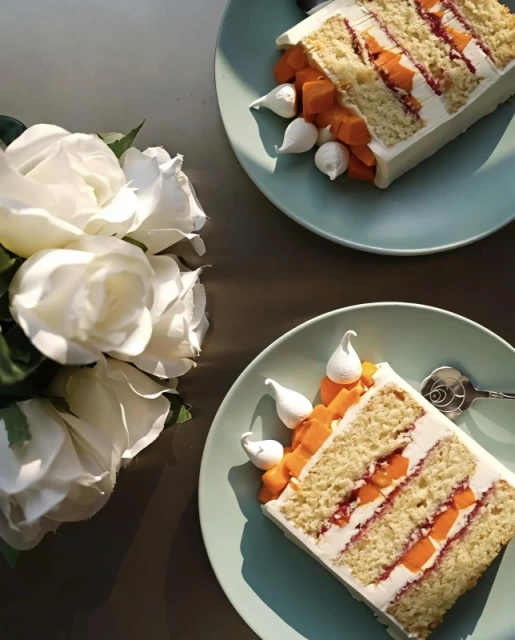
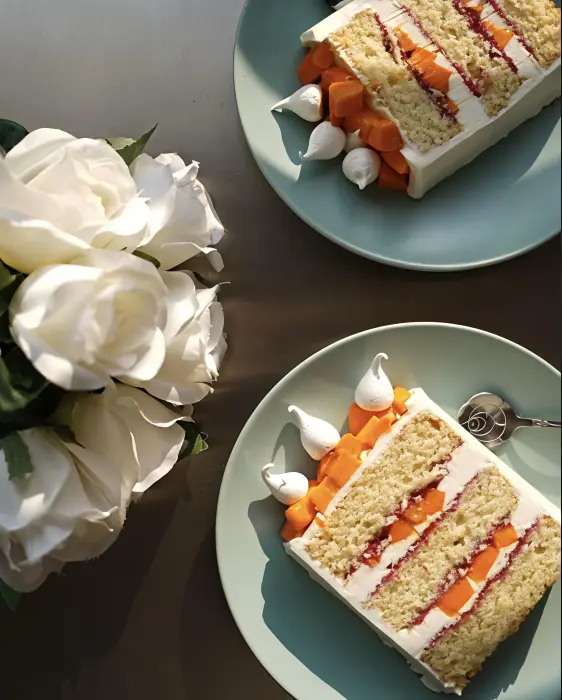
images optimised

diff --git a/src/app/mo-made.component.ts b/src/app/mo-made.component.ts
@@ -285,8 +285,8 @@ export class MoMadeComponent implements OnInit {
   }
 
   storyImages = [
-    'assets/images/IMG_5087.webp',
-    'assets/images/IMG_5088.webp'
+    'assets/images/IMG_5087_m.webp',
+    'assets/images/co1_m.webp'
   ];
   currentStoryIndex = signal(0);
 
@@ -312,33 +312,6 @@ export class MoMadeComponent implements OnInit {
     }
   }
 
-  // getSeasonalProducts(): Product[] {
-  //   const month = new Date().getMonth();
-  //   if (month <= 1 || month >= 10) {
-  //     return [
-  //       { id: 101, name: 'Strawberry Bliss', price: 1600, flavor: 'fruit', image: 'assets/images/IMG_5089.webp', description: 'Vanilla sponge with Strawberry Compote & Vanilla Swiss Meringue Buttercream' },
-  //       { id: 102, name: 'Chocolate Strawberry Dream', price: 1800, flavor: 'chocolate', image: 'assets/images/IMG_5088.webp', description: 'Chocolate sponge with fresh strawberry & Chocolate Ganache' }
-  //     ];
-  //   } else if (month >= 2 && month <= 5) {
-  //     return [
-  //       { id: 201, name: 'Mango Delight', price: 1700, flavor: 'fruit', image: 'assets/images/IMG_5087.webp', description: 'Vanilla Sponge with Fresh Mango & Vanilla Swiss Meringue Buttercream' },
-  //       { id: 202, name: 'Pistachio Mango Fusion', price: 2000, flavor: 'nutty', image: 'assets/images/IMG_5089.webp', description: 'Pistachio sponge with Fresh Mango, Raspberry & Vanilla Swiss Meringue Buttercream' },
-  //       { id: 203, name: 'Tropical Berry', price: 1800, flavor: 'fruit', image: 'assets/images/IMG_5087.webp', description: 'Vanilla Sponge with Fresh Mango, Raspberry & Vanilla Swiss Meringue Buttercream' }
-  //     ];
-  //   } else {
-  //     return [
-  //       { id: 301, name: 'Strawberry Bliss', price: 1600, flavor: 'fruit', image: 'assets/images/IMG_5089.webp', description: 'Vanilla sponge with Strawberry Compote & Vanilla Swiss Meringue Buttercream' },
-  //       { id: 302, name: 'Tropical Berry', price: 1800, flavor: 'fruit', image: 'assets/images/IMG_5087.webp', description: 'Vanilla Sponge with Fresh Mango, Raspberry & Vanilla Swiss Meringue Buttercream' }
-  //     ];
-  //   }
-  // }
-
-  // getSeasonalTitle(): string {
-  //   const month = new Date().getMonth();
-  //   if (month <= 1 || month >= 10) return 'Winter Specials';
-  //   if (month >= 2 && month <= 4) return 'Summer Harvest';
-  //   return 'Monsoon Delights';
-  // }
 
   getCakeMessageLines(): [string, string | null] {
     if (!this.cakeMessage || !this.cakeMessage.trim()) return ["", null];
@@ -518,9 +491,9 @@ export class MoMadeComponent implements OnInit {
       title: 'Wedding Cakes',
       description: 'Multi-tier floral masterpieces with handcrafted sugar flowers',
       price: '₹3,000/kg onwards',
-      image: 'assets/images/w1.webp',
+      image: 'assets/images/w1_m.webp',
       products: [
-        { id: 1, name: 'Blush Garden Tier', price: 12500, flavor: 'vanilla', image: 'assets/images/w1.webp', description: 'Three-tier vanilla sponge with fresh roses and gold leaf accents' },
+        { id: 1, name: 'Blush Garden Tier', price: 12500, flavor: 'vanilla', image: 'assets/images/w1_m.webp', description: 'Three-tier vanilla sponge with fresh roses and gold leaf accents' },
         { id: 2, name: 'Midnight Elegance', price: 15000, flavor: 'chocolate', image: 'assets/images/w2.webp', description: 'Dark chocolate ganache with deep burgundy sugar flowers' },
         { id: 3, name: 'Tropical Paradise', price: 11000, flavor: 'fruit', image: 'assets/images/w3.webp', description: 'Mango passion fruit layers with edible orchids' },
         { id: 4, name: 'Classic White', price: 9500, flavor: 'vanilla', image: 'assets/images/w4.webp', description: 'Traditional white fondant with delicate lace patterns' },
@@ -533,9 +506,9 @@ export class MoMadeComponent implements OnInit {
       title: 'Celebration Cakes',
       description: 'Our most loved classic flavors and timeless celebration designs',
       price: '₹3,000/kg onwards',
-      image: 'assets/images/c1.webp',
+      image: 'assets/images/c1_m.webp',
       products: [
-        { id: 21, name: 'Chocolate Caramel', price: 1400, flavor: 'chocolate', image: 'assets/images/c1.webp', description: 'Chocolate sponge, salted caramel, Chocolate Feuilletine filling & Chocolate Ganache Frosting' },
+        { id: 21, name: 'Chocolate Caramel', price: 1400, flavor: 'chocolate', image: 'assets/images/c1_m.webp', description: 'Chocolate sponge, salted caramel, Chocolate Feuilletine filling & Chocolate Ganache Frosting' },
         { id: 22, name: 'Chocolate Raspberry', price: 1500, flavor: 'chocolate', image: 'assets/images/c2.webp', description: 'Chocolate Sponge, Raspberry compote, Chocolate Feuilletine filling & Chocolate Swiss Meringue buttercream' },
         { id: 23, name: 'Chocolate Hazelnut', price: 1600, flavor: 'chocolate', image: 'assets/images/c3.webp', description: 'Chocolate sponge, Hazelnut praline, Chocolate Feuilletine filling & Chocolate Ganache frosting' },
         { id: 24, name: 'Red Velvet', price: 1300, flavor: 'vanilla', image: 'assets/images/c4.webp', description: 'Red Velvet sponge with cream cheese frosting or chocolate ganache' },
@@ -551,9 +524,9 @@ export class MoMadeComponent implements OnInit {
       title: 'Confectionery',
       description: 'Exquisite ingredients, complex pairings, and luxury finishes',
       price: 'Commissioned Pieces',
-      image: 'assets/images/co1.webp',
+      image: 'assets/images/co1_m.webp',
       products: [
-        { id: 31, name: 'Coffee Hazelnut', price: 2000, flavor: 'nutty', image: 'assets/images/co1.webp', description: 'Vanilla Sponge, Chocolate Hazelnut feuilletine & Coffee Buttercream' },
+        { id: 31, name: 'Coffee Hazelnut', price: 2000, flavor: 'nutty', image: 'assets/images/co1_m.webp', description: 'Vanilla Sponge, Chocolate Hazelnut feuilletine & Coffee Buttercream' },
         { id: 32, name: 'Coconut Passionfruit', price: 2200, flavor: 'fruit', image: 'assets/images/IMG_5089.webp', description: 'Coconut sponge, Passionfruit filling, White chocolate Feuilletine & Vanilla Swiss Meringue Buttercream' },
         { id: 33, name: 'Carrot Walnut', price: 1800, flavor: 'nutty', image: 'assets/images/co2.webp', description: 'Carrot Walnut Sponge with Cream cheese frosting' },
         { id: 34, name: 'Banana Dulce', price: 1900, flavor: 'vanilla', image: 'assets/images/co4.webp', description: 'Banana Walnut Sponge, Dulce Filling & Vanilla Swiss Meringue Buttercream' },
@@ -575,9 +548,9 @@ export class MoMadeComponent implements OnInit {
       title: 'Summer Special',
       description: 'Fresh, limited-edition treats inspired by the summer season',
       price: 'By Consultation',
-      image: 'assets/images/s1.webp',
+      image: 'assets/images/s1_m.webp',
       products: [
-        { id: 41, name: 'Sugar Free Option', price: 300, flavor: 'vanilla', image: 'assets/images/s1.webp', description: 'Replace refined sugar with natural sweeteners (Add-on)' },
+        { id: 41, name: 'Sugar Free Option', price: 300, flavor: 'vanilla', image: 'assets/images/s1_m.webp', description: 'Replace refined sugar with natural sweeteners (Add-on)' },
         { id: 42, name: 'Eggless Sponge Base', price: 0, flavor: 'vanilla', image: 'assets/images/s6.webp', description: '100% Eggless sponge for any flavor (Select to customize)' },
         { id: 43, name: 'Gluten Free Almond', price: 500, flavor: 'nutty', image: 'assets/images/s3.webp', description: 'Almond flour based sponge (Add-on)' },
         { id: 44, name: 'Custom Topper', price: 450, flavor: 'vanilla', image: 'assets/images/s4.webp', description: 'Acrylic or Fondant topper with personalized message' },
@@ -589,9 +562,9 @@ export class MoMadeComponent implements OnInit {
       title: 'Winter Special',
       description: 'Build your own dream cake or customize dietary preferences',
       price: 'By Consultation',
-      image: 'assets/images/IMG_5090.webp',
+      image: 'assets/images/IMG_5290_m.webp',
       products: [
-        { id: 41, name: 'Sugar Free Option', price: 300, flavor: 'vanilla', image: 'assets/images/IMG_5090.webp', description: 'Replace refined sugar with natural sweeteners (Add-on)' },
+        { id: 41, name: 'Sugar Free Option', price: 300, flavor: 'vanilla', image: 'assets/images/IMG_5290_m.webp', description: 'Replace refined sugar with natural sweeteners (Add-on)' },
         { id: 41, name: 'Sugar Free Option', price: 300, flavor: 'vanilla', image: 'assets/images/IMG_5087.webp', description: 'Replace refined sugar with natural sweeteners (Add-on)' },
         { id: 42, name: 'Eggless Sponge Base', price: 0, flavor: 'vanilla', image: 'assets/images/wi1.webp', description: '100% Eggless sponge for any flavor (Select to customize)' },
         { id: 43, name: 'Gluten Free Almond', price: 500, flavor: 'nutty', image: 'assets/images/wi2.webp', description: 'Almond flour based sponge (Add-on)' },
